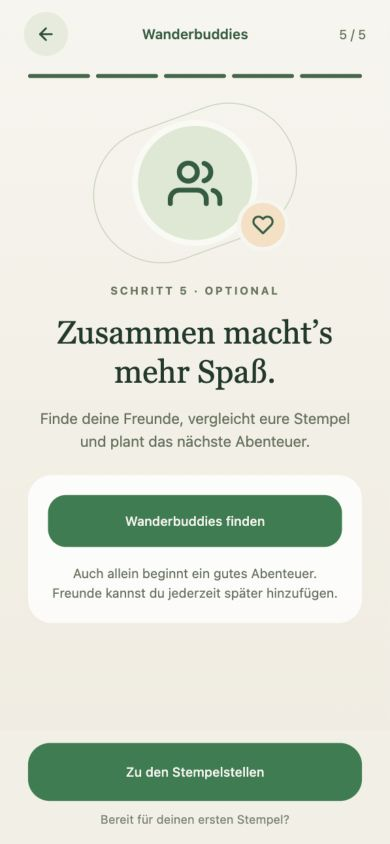
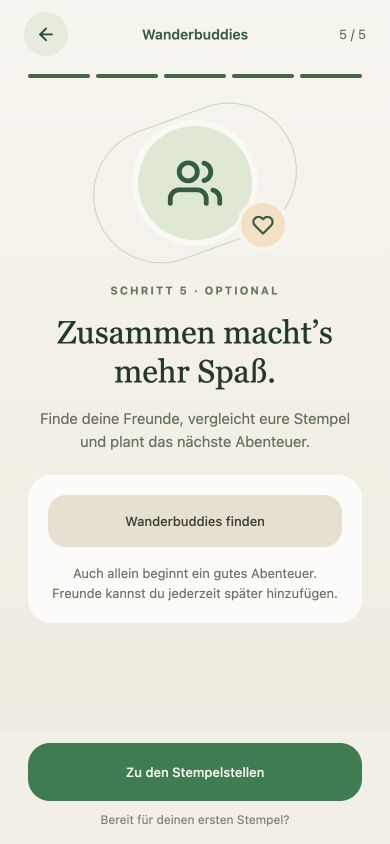
fix(app): Button-Hierarchie korrigieren und Designsprache dokumentieren

diff --git a/app/app/onboarding.tsx b/app/app/onboarding.tsx
@@ -728,14 +728,14 @@ export default function OnboardingScreen() {
               </View></View>
               <ActionButton disabled={locationPermission === 'checking' || locationPermission === 'granted'}
                 label={locationPermission === 'granted' ? 'Standort ist aktiviert' : locationPermission === 'checking' ? 'Wird geprüft…' : locationPermission === 'denied' ? 'Standort erneut anfragen' : 'Standort aktivieren'}
-                onPress={requestLocationPermission} variant="primary" />
+                onPress={requestLocationPermission} variant="secondary" />
               {locationPermission === 'denied' ? <Text style={styles.guidance}>Kein Problem, du kannst ohne Standort starten. Wenn die Anfrage nicht mehr erscheint, erlaube den Zugriff in deinen Geräte- oder Browsereinstellungen.</Text> : null}
               {locationError ? <Text style={styles.errorText}>{locationError}</Text> : null}
               <Text style={styles.inputHint}>Die Freigabe ist freiwillig und lässt sich in deinen Geräte- oder Browsereinstellungen ändern.</Text>
             </View> : null}
 
             {step === 4 ? <View style={styles.inputCard}>
-              <ActionButton disabled={!accessToken || !canPerformWrites || busy} label="Wanderbuddies finden" onPress={() => setIsSearchModalVisible(true)} variant="primary" />
+              <ActionButton disabled={!accessToken || !canPerformWrites || busy} label="Wanderbuddies finden" onPress={() => setIsSearchModalVisible(true)} variant="secondary" />
               {sentRequests.length > 0 ? <View style={styles.sentRequestsBox}><Text style={styles.sentRequestsTitle}>Deine Anfragen sind unterwegs</Text><FriendsList items={sentRequestItems} /></View> :
                 <Text style={styles.guidance}>Auch allein beginnt ein gutes Abenteuer. Freunde kannst du jederzeit später hinzufügen.</Text>}
             </View> : null}

diff --git a/Design.md b/Design.md
@@ -1,0 +1,174 @@
+# Harzer Wander Buddy · Designsprache
+
+Diese Datei beschreibt die mit dem geführten Onboarding eingeführte Designsprache. Sie dient als Referenz, um weitere Ansichten der App schrittweise daran auszurichten. Die Werte stammen aus `app/app/onboarding.tsx`; sie sind bisher lokal definiert und noch kein zentral implementiertes Design-System. Das bestehende `Colors`-Objekt in `app/constants/theme.ts` entspricht dieser Palette noch nicht.
+
+## 1. Charakter und Leitlinien
+
+Die App wirkt wie ein freundlicher Begleiter für draußen: warm, ruhig, naturverbunden und leicht verständlich. Cremefarbene Flächen, Waldgrün, weiche Rundungen und illustrative Waldtiere tragen diesen Charakter. Große Serifentitel geben den Einstiegsansichten Persönlichkeit; klare Systemschrift hält Formulare und Navigation gut lesbar.
+
+- Eine Ansicht hat einen klaren Zweck und eine erkennbare Hauptaktion.
+- Informationen erscheinen dort, wo sie für die nächste Entscheidung gebraucht werden.
+- Große Abstände und wenige Elemente geben wichtigen Inhalten Raum.
+- Optionale Aktionen sind ausdrücklich freiwillig und visuell nachgeordnet.
+- Dekoration unterstützt Orientierung und Stimmung. Listen, Karten und Detaildaten erhalten den Platz, den ihre Aufgabe benötigt.
+- Auswahl, Ladezustand und Fehler sind verständlich erkennbar. Farbe allein reicht als Rückmeldung nicht aus.
+
+## 2. Farben
+
+### Hintergründe und Oberflächen
+
+| Rolle | Aktueller Wert | Verwendung |
+| --- | --- | --- |
+| Seitenhintergrund | `#F7F5EF` → `#F3EFE6` → `#F0EBE1` | Sehr sanfter vertikaler Verlauf, keine kräftigen Farbwechsel |
+| Aktionsbereich unten | `#F3EFE6` | Ruhige Fläche hinter der Hauptaktion |
+| Inhaltskarte | `#FFFFFFCC` | Weiß mit 80 % Deckkraft über dem warmen Hintergrund |
+| Leichte Kachel | `#FFFFFF99` | Weiß mit 60 % Deckkraft für Vorteile und Avatar-Auswahl |
+| Hervorgehobene Auswahl | `#E7EDDE` | Heller Salbeiton, zusammen mit grünem Rand und Häkchen |
+| Eingabefeld | `#F4F6ED` | Leicht grün getönte Fläche innerhalb einer Karte |
+| Sekundärbutton | `#E8DFCF` | Warmer Sandton für zusätzliche Aktionen |
+| Illustrationsfläche | `#DFE7D4` | Salbeigrün hinter großen Funktions-Icons |
+| Kleiner Illustrationsakzent | `#F6DFC4` | Dezentes Apricot, sparsam einsetzen |
+
+### Text, Aktionen und Konturen
+
+| Rolle | Aktueller Wert | Verwendung |
+| --- | --- | --- |
+| Große Titel / Eingabetext | `#21382B` | Dunkles Waldgrün |
+| Icons / Navigation / aktive Labels | `#315B43` | Wiederkehrendes funktionales Grün |
+| Primärbutton | `#397B52` | Einzige aktive Hauptaktion der Ansicht |
+| Text auf Primärbutton | `#F5F3EE` | Warmes, fast weißes Creme |
+| Text auf Sekundärbutton | `#374337` | Dunkler Text auf Sand |
+| Fließtext | `#65715E` | Gedämpftes Grün für Erklärungen |
+| Hilfstext | `#697361` bzw. `#6C7666` | Kurze Hinweise unter Komponenten |
+| Eyebrow | `#68775D` | Kleine kontextgebende Überschrift |
+| Aktiver Fortschritt / Auswahlrand | `#41664A` | Fortschrittssegmente, Auswahlrand, Häkchenfläche |
+| Inaktiver Fortschritt | `#DCE1D4` | Sichtbar, aber deutlich zurückhaltend |
+| Neutraler Auswahlrand | `#E1E4D8` | Ungewählte Kacheln |
+| Eingaberand | `#CBD6BF` | Feine Abgrenzung des Eingabefelds |
+| Fehler | `#8A2D1F` | Dunkles Rostrot plus konkrete Fehlermeldung |
+
+Für neue Ansichten diese Rollen wiederverwenden, statt jeweils ähnliche neue Grüntöne einzuführen. Bei einer späteren Zentralisierung eignen sich Namen wie `background`, `surface`, `textStrong`, `textMuted`, `primary`, `secondary`, `selectedSurface`, `border` und `error`. Diese Namen sind eine Empfehlung und derzeit keine vorhandenen Exporte.
+
+## 3. Typografie
+
+Schriftfamilien über `Fonts` aus `app/constants/theme.ts` verwenden. `Fonts.serif` nutzt auf iOS `ui-serif`, im Web Georgia / Times New Roman und auf anderen Plattformen die verfügbare Serifenschrift. Funktionale Texte verwenden die Systemschrift; für explizite plattformübergreifende Vorgaben steht `Fonts.sans` bereit. Es wird keine zusätzliche Schriftdatei benötigt.
+
+| Element | Größe / Zeilenhöhe | Gewicht / Ausrichtung |
+| --- | --- | --- |
+| Einstiegstitel | 32 / 39 | Serif, zentriert im Onboarding |
+| Kompakter Titel | 28 / 34 | Serif, z. B. über der Avatar-Auswahl |
+| Erklärung | 15 / 23 | Systemschrift, zentriert in Einstiegsansichten |
+| Kartentitel | 16 / 20 | 700, linksbündig |
+| Schrittnavigation | 14 | 600 |
+| Buttonlabel | 13 / 18 | 500, zentriert |
+| Eingabelabel | 13 | 600 |
+| Eingabewert | 20 | Systemschrift |
+| Hinweis | 13 / 20 | Regulär |
+| Kleiner Hilfstext | 12 / 18 | Regulär |
+| Eyebrow | 11 | 700, Großbuchstaben, Buchstabenabstand 2 |
+
+Großbuchstaben auf kurze Kontextlabels beschränken. Serifenschrift für zentrale Überschriften verwenden, Systemschrift für Zahlen, Metadaten, Bedienelemente und längere Texte. Listen und Detailinformationen bleiben linksbündig. Die Zentrierung des Onboardings ist kein Vorbild für jede Datenansicht.
+
+## 4. Layout, Abstände und Rundungen
+
+Alle Größen sind React-Native-Layoutwerte, also logische Einheiten; im Web entsprechen sie CSS-Pixeln.
+
+- Onboarding-Inhalt: maximal 560 breit und auf großen Ansichten horizontal zentriert.
+- Hauptinhalt: 28 horizontaler Außenabstand, 20 oben und 24 unten.
+- Vertikale Inhaltsabstände: überwiegend 16; eng zusammengehörige Elemente 4–8.
+- Inhaltskarten: 20 Innenabstand, 16 Abstand zwischen ihren Elementen.
+- Kachelraster: 12 Abstand; Avatar-Kacheln je 47 % breit für zwei Spalten.
+- Navigation oben: 24 horizontaler Außenabstand, 44 × 44 Zurück-Aktion.
+- Fortschritt: 4 hohe Segmente mit 6 Abstand; bereits erreichte Segmente sind grün.
+- Aktionsbereich unten: 28 horizontal, 12 oben, 10 Abstand zum Hilfstext; unten mindestens 16 oder der größere Safe-Area-Inset.
+
+| Komponente | Radius |
+| --- | --- |
+| Inhaltskarte / Auswahlkachel | 24 |
+| Vorteilskachel | 20 |
+| Eingabefeld | 16 |
+| Standardbutton | 18 |
+| Hauptbutton unten | 22 |
+| Modal | 22 |
+| Avatar / runder Icon-Button | Halbe Breite bzw. Höhe |
+
+Der Onboarding-Standard ist eine ruhige Fläche ohne starken Schatten. Die Anmeldekarte verwendet noch einen weichen warmen Schatten (`#BDA981`, Y 10, Opazität 0,18, Radius 24). Neue Karten bevorzugt durch Fläche, Abstand und bei Bedarf eine feine Kontur gliedern. Schatten für tatsächliche Überlagerungen oder wenige hervorgehobene Elemente einsetzen.
+
+## 5. Button-Hierarchie
+
+**Pro Ansicht genau eine aktive Primäraktion.** Zwei grüne Buttons dürfen nicht um dieselbe Aufmerksamkeit konkurrieren. Der Primärbutton steht für den nächsten entscheidenden Schritt. Zusätzliche Aktionen erhalten den sandfarbenen Sekundärstil; reine Navigation bleibt eine dezente Icon-Aktion.
+
+Im angemeldeten Onboarding liegt die Primäraktion durchgehend im unteren Aktionsbereich:
+
+| Schritt | Primäraktion unten | Zusätzliche Aktion |
+| --- | --- | --- |
+| 1 · Willkommen | Los geht’s | — |
+| 2 · Name | Weiter | — |
+| 3 · Avatar | Weiter | Eigenes Foto hochladen · sekundär |
+| 4 · Standort | Ohne Standort weiter / Weiter | Standort aktivieren / erneut anfragen · sekundär |
+| 5 · Wanderbuddies | Zu den Stempelstellen | Wanderbuddies finden · sekundär |
+
+Vor der Anmeldung ist „Anmelden“ die aktive Primäraktion; „Los geht’s“ ist gesperrt. Nach der Anmeldung entfällt die Anmeldekarte.
+
+- Standardbutton: mindestens 52 hoch, 18 horizontaler Innenabstand, Radius 18.
+- Hauptbutton unten: mindestens 58 hoch, volle Inhaltsbreite, Radius 22.
+- Gedrückt: Opazität 0,88. Gesperrt: Opazität 0,48 und tatsächlich deaktivierte Interaktion.
+- Während des Speicherns zeigt die Aktion „Wird gespeichert…“; Vorwärts- und Zurück-Navigation sind gesperrt.
+- Labels benennen die Aktion oder ihren Ausgang: „Standort aktivieren“, „Zu den Stempelstellen“, „Ohne Standort weiter“.
+
+Bei der Überarbeitung anderer Ansichten zuerst festlegen, welche Aktion primär ist. Sind zwei Aktionen fachlich gleichwertig, eine klare Entscheidung über die Hierarchie treffen, statt beide grün darzustellen. Gefährliche Aktionen bekommen einen passenden eigenen Stil und keine beiläufige Platzierung neben der Hauptaktion.
+
+## 6. Komponenten und Zustände
+
+### Eingaben
+
+Ein sichtbares Label über dem Feld beschreibt die Eingabe. Platzhalter zeigen ein kurzes Beispiel und ersetzen das Label nicht. Ein knapper Hilfstext erklärt den erwarteten Umfang. Bei einer fehlenden Pflichtangabe bleibt die Weiter-Aktion deaktiviert. Bei Speicherfehlern bleiben Eingaben erhalten.
+
+### Auswahlkacheln
+
+Das gesamte Element ist antippbar. Ungewählt: helle Fläche, neutraler 2-Pixel-Rand und gedämpftes Label. Gewählt: Salbeifläche, grüner Rand, kräftiges Label und ein weißes Häkchen auf einer grünen Kreisfläche. Auswahl zusätzlich über den zugänglichen Zustand mitteilen.
+
+Die Avatar-Auswahl bietet Bär, Fuchs, Luchs und „Kein Avatar“. Avatare sind 82 × 82, kreisförmig beschnitten. Die ausgewählte Vorschau ist im kompakten Screen 80 × 80; die größere Profilvorschau 142 × 142. „Kein Avatar“ ist eine reguläre Auswahl und entfernt ein vorhandenes Profilbild. Ein eigenes Foto bleibt als sekundäre Aktion verfügbar.
+
+### Illustrationen und Icons
+
+Feather-Icons bilden das funktionale Icon-System: meist 20–22 für Aktionen, 35–58 für größere erklärende Darstellungen. Funktionsillustrationen kombinieren einen großen runden Salbeibadge, eine feine elliptische Kontur und einen kleinen Apricotbadge. Nicht jede Karte braucht eine Illustration.
+
+Die drei Tier-Avatare sind eigene Aquarellillustrationen: freundlicher Blick, warme Erdtöne, grünes Wandertuch und cremefarbener Hintergrund. Neue Motive sollen dieselbe ruhige Stimmung und auch in kleinen Größen erkennbare Silhouetten haben. Keine Schrift oder komplexe Landschaft innerhalb eines Avatars. Dateien und ursprünglicher Imagegen-Prompt: [Avatar-Referenz](app/assets/images/avatars/README.md).
+
+### Overlays
+
+Eine modale Suche liegt auf weißer Fläche mit Radius 22 über einem gedämpften grünen Backdrop (`rgba(46,58,46,0.35)`). Titel, erreichbare Schließen-Aktion, Suchfeld und verständliche Leer-/Lade-/Fehlerzustände bilden die Struktur. Beim Übertragen auf andere Ansichten die Höhe und Platzierung auf kleinen Displays und mit geöffneter Tastatur prüfen; den aktuellen festen oberen Modalabstand nicht als allgemeine Layoutregel übernehmen.
+
+## 7. Geführte Abläufe und Sprache
+
+Das Onboarding folgt „Kontext → Nutzen → Eingabe oder Entscheidung → nächste Aktion“. Eine kurze Willkommen-Ansicht erklärt das Ziel, danach bekommt jede Komponente ihren eigenen Screen. Fortschritt und Zurück-Navigation bleiben an derselben Position. Der Inhalt scrollt; die Hauptaktion sitzt außerhalb des Scrollbereichs, damit längere Inhalte sie nicht verdrängen. Kleine Displays und größere Schrift dürfen weiterhin scrollen.
+
+Standortberechtigungen werden erst nach einer Erklärung und einer bewussten Aktion angefragt. Eine Ablehnung verhindert den Einstieg nicht. Optionalität erscheint sowohl im Kontextlabel als auch in der möglichen Weiter-Aktion. Der Abschluss erfolgt erst, nachdem erforderliche Änderungen gespeichert wurden.
+
+Die Sprache ist direkt, freundlich und konkret: „du“, „dein“, „Wanderbuddy“. Vorteile erklären statt technische Abläufe. Kurze Titel, danach ein bis zwei Sätze. Echte Umlaute verwenden. Keine nicht vorhandenen Funktionen oder Berechtigungen ankündigen. Fehler nennen das Problem und einen erreichbaren nächsten Schritt.
+
+## 8. Übertragung auf den Rest der App
+
+Für jede überarbeitete Ansicht:
+
+1. Zweck, wichtigste Information und Primäraktion festlegen.
+2. Warmen Hintergrund, passende Inhaltsflächen und bestehende Farbrollen verwenden.
+3. Serifentitel und funktionale Systemschrift entsprechend der Informationshierarchie einsetzen.
+4. Inhalte mit den beschriebenen Abständen und Rundungen gruppieren. Datenreiche Ansichten nach ihrer Aufgabe gestalten; die maximale Onboarding-Breite ist keine Vorgabe für Karten oder breite Tabellen.
+5. Zusätzliche Aktionen sekundär gestalten und gewählte Zustände neben Farbe auch durch Text oder Icon zeigen.
+6. Lade-, Leer-, Fehler-, Offline- und gesperrte Zustände mitdenken. Entwürfe bei Fehlern erhalten.
+7. Auf kleinen und großen Displays, mit Tastatur, größerer Schrift und Safe Areas prüfen. Keine horizontalen Überläufe oder abgeschnittenen Bedienelemente.
+8. Zugängliche Labels, Rollen, Zustände und ausreichende Kontraste prüfen. Die dokumentierten Farben ersetzen keine Kontrastprüfung der konkreten Kombination.
+9. Screenshots der tatsächlichen Ansicht aufnehmen und im PR einbinden.
+
+Langfristig können gemeinsame Farben, Abstände, Typografiestile und Buttonvarianten aus den lokal definierten Styles extrahiert werden. Diese Datei beschreibt die visuelle Richtung; eine technische Migration des gesamten Themes ist ein eigener Schritt. Für Dark Mode sind bisher keine entsprechenden neuen Tokens definiert.
+
+## 9. Referenzen
+
+- Umsetzung: [Onboarding](app/app/onboarding.tsx), [Schriftfamilien](app/constants/theme.ts).
+- Visuelle Referenz: [Screenshots der fünf Schritte](docs/screenshots/guided-onboarding/README.md).
+- [Duolingo-Ablauf](https://uidiscovery.com/studies/duolingo-onboarding): Erwartungen erklären, kurze Entscheidungen, sichtbarer Fortschritt.
+- [Headspace-Fallstudie](https://growth.design/case-studies/headspace-user-onboarding/): freundliche Illustrationen und positive, am Nutzen orientierte Ansprache.
+
+Die recherchierten Beispiele dienen als Muster für den Ablauf. Layout, Texte und Avatare sind für Harzer Wander Buddy gestaltet.
